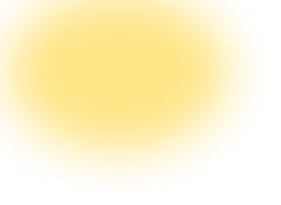
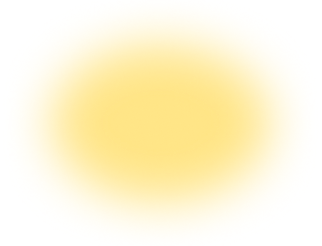
add color

diff --git a/playing.html b/playing.html
@@ -14,7 +14,7 @@
     <!-- 左上角光效 -->
     <img src="src/leftlight.png" class="left-light" alt="左光">
     <!-- 左上角色圖 -->
-    <img src="src/character.png" class="character" alt="角色地圖">
+    <img src="src/characterRed.png" class="character" alt="角色地圖">
 
     <!-- 中央 Round 標題 -->
     <div class="round-info">
@@ -30,50 +30,27 @@
       <img src="src/rightlight.png" class="right-light" alt="右光">
       <!-- 右下角 GOAL -->
       <img src="src/goal.png" class="goal" alt="終點路徑">
-      <h2 class="goal-text"></h2>
+      <h2 class="goal-text">GOAL!</h2>
+
+      <!-- 光球回饋 --> <!-- 新加了這個div class!!!!!!!!!!!!!!!!!!!!!!!!!!!!!!!!!!!!!!!!!!!!!!!!!!!!!!!!!! -->
+      <div class="color-lights">
+        <div class="light-ball white" style="top: 304.5px; left: 585px;"></div>
+        <div class="light-ball yellow" style="top: 256.5px; left: 638px;"></div>
+        <div class="light-ball magenta" style="top: 220.5px; left: 700px;"></div>
+        <div class="light-ball cyan" style="top: 196.5px; left: 765px;"></div>
+      </div>
+
     </div>
   </div>
+
   <button onclick='window.location.href = "index.html"' ;> 上一頁 </button>
-  <!--<h2>control TD</h2>
-  <input type="range" class="controlTD">
-  <h2>controled by TD</h2>
-  <input type="range" class="controledByTD">-->
-  <script src="src/playing.js"></script>
 
-
-  <!--先放在這邊改天再搬家測試-->
-  <div id="circleC" style="width: 50px;
-      height: 50px;
-      border-radius: 50%;
-      background-color: gray;
-      transition: background-color 0.3s;"></div>
-  <h3>青色</h3>
-  <div id="circleM" style="width: 50px;
-      height: 50px;
-      border-radius: 50%;
-      background-color: gray;
-      transition: background-color 0.3s;"></div>
-  <h3>洋紅</h3>
-  <div id="circleY" style="width: 50px;
-      height: 50px;
-      border-radius: 50%;
-      background-color: gray;
-      transition: background-color 0.3s;"></div>
-  <h3>黃色</h3>
-  <div id="circleW" style="width: 50px;
-      height: 50px;
-      border-radius: 50%;
-      background-color: gray;
-      transition: background-color 0.3s;"></div>
-  <h3>白色</h3>
-  
   <script>
     let ws = new WebSocket('wss://websitetest-xx30.onrender.com');
-    const circleC = document.getElementById("circleC");
-    const circleM = document.getElementById("circleM");
-    const circleY = document.getElementById("circleY");
-    const circleW = document.getElementById("circleW");
-    //const toggleC = document.getElementById("toggleSwitch");
+    const ballCyan = document.querySelectorAll('.light-ball.cyan');
+    const ballMagenta = document.querySelectorAll('.light-ball.magenta');
+    const ballYellow = document.querySelectorAll('.light-ball.yellow');
+    const ballWhite = document.querySelectorAll('.light-ball.white');
 
     ws.addEventListener('message', (message) => {
       if (message.data == 'ping') {
@@ -84,46 +61,45 @@
       let data = JSON.parse(message.data);
       if ('colorC' in data) {
         let valC = data['colorC'];
-        if(valC == 1){
+        if (valC == 1) {
           //toggleC.checked = true;
-          circleC.style.backgroundColor = "cyan";
-        }else{
-          //toggleC.checked = false;
-          circleC.style.backgroundColor = "gray";
+          ballCyan.forEach((cyan) => {
+            cyan.classList.add('active');
+          });
         }
       }
       if ('colorM' in data) {
         let valM = data['colorM'];
-        if(valM == 1){
+        if (valM == 1) {
           //toggleC.checked = true;
-          circleM.style.backgroundColor = "magenta";
-        }else{
-          //toggleC.checked = false;
-          circleM.style.backgroundColor = "gray";
+          ballMagenta.forEach((magenta) => {
+            magenta.classList.add('active');
+          });
         }
       }
       if ('colorY' in data) {
         let valY = data['colorY'];
-        if(valY == 1){
+        if (valY == 1) {
           //toggleC.checked = true;
-          circleY.style.backgroundColor = "yellow";
-        }else{
-          //toggleC.checked = false;
-          circleY.style.backgroundColor = "gray";
+          ballYellow.forEach((yellow) => {
+            yellow.classList.add('active');
+          });
         }
       }
       if ('colorW' in data) {
         let valW = data['colorW'];
-        if(valW == 1){
+        if (valW == 1) {
           //toggleC.checked = true;
-          circleW.style.backgroundColor = "white";
-        }else{
-          //toggleC.checked = false;
-          circleW.style.backgroundColor = "gray";
+          ballWhite.forEach((white) => {
+            white.classList.add('active');
+          });
         }
       }
     });
   </script>
+
+
+
 </body>
 
 </html>

diff --git a/src/playing.css b/src/playing.css
@@ -12,14 +12,10 @@ html {
   align-items: center;
   overflow: hidden;
 
-  /* 背景圖片 */
-  background-image: url('../src/BG.png');
+  background: radial-gradient(circle at 40% 40%, #fefadc, #e3ffef, #c9fff7);
   background-size: cover;
-  /* 讓背景圖片撐滿畫面 */
   background-repeat: no-repeat;
-  /* 不要重複平舖 */
   background-position: center center;
-  /* 圖片置中 */
 }
 
 /* 整體容器 */
@@ -27,17 +23,19 @@ html {
   width: 844px;
   height: 390px;
   position: relative;
-  overflow: hidden;
+  overflow: visible;
 }
 
 /* 左上光效 */
 .left-light {
   position: absolute;
-  top: 0;
-  left: 15;
-  width: 300px; /* 可以微調 */
+  top: -80px;
+  left: -90px;
+  width: 400px;
+  /* 可以微調 */
   opacity: 0.9;
-  z-index: 0; /* 比 character 更低 */
+  z-index: 0;
+  /* 比 character 更低 */
 }
 
 /* 左上角角色地圖 */
@@ -79,27 +77,31 @@ html {
   transform: translateX(-50%);
   width: 120px;
   height: auto;
-  transform-style: preserve-3d; /* ⭐保持3D空間感 */
-  transition: transform 0.1s linear; /* ⭐讓旋轉滑順 */
+  transform-style: preserve-3d;
+  /* ⭐保持3D空間感 */
+  transition: transform 0.1s linear;
+  /* ⭐讓旋轉滑順 */
   z-index: 3;
 }
 
 /* 右下光效 */
 .right-light {
   position: absolute;
-  bottom: 0;
-  right: 0;
-  width: 300px; /* 可以微調 */
+  bottom: -90px;
+  right: -130px;
+  width: 400px;
+  /* 可以微調 */
   opacity: 0.9;
-  z-index: 0; /* 比 goal 更低 */
+  z-index: 0;
+  /* 比 goal 更低 */
 }
 
 /* 右下角 goal 關卡路徑 */
 .goal {
   position: absolute;
-  bottom: 0;
-  right: 0;
-  width: 800px;
+  bottom: -110px;
+  right: -70px;
+  width: 400px;
 }
 
 /* 左下 GOAL! 文字 */
@@ -110,6 +112,58 @@ html {
   color: white;
   font-weight: 900;
   font-size: 28px;
-  text-shadow: 2px 2px 5px rgba(0, 0, 0, 0.3); /* 讓字有陰影更清楚 */
-  z-index: 5; /* 確保文字在最上層 */
+  text-shadow: 2px 2px 5px rgba(0, 0, 0, 0.3);
+  /* 讓字有陰影更清楚 */
+  z-index: 5;
+  /* 確保文字在最上層 */
 }
+
+
+/*下面都是新加的!!!!!!!!!!!!!!!!!!!!!!!!!!!!!!!!!!!!!!!!!!!!!!!!!!!!!!!!!!!!!!!!!!!!!!*/
+/* 光球容器 */
+.color-lights {
+  position: absolute;
+  top: 0;
+  left: 0;
+  width: 100%;
+  height: 100%;
+  pointer-events: none; /* 不影響點擊行為 */
+  z-index: 3;
+}
+
+/* 單顆光球共用樣式 */
+.light-ball {
+  position: absolute;
+  width: 42px;
+  height: 42px;
+  border-radius: 50%;
+  opacity: 0;
+  box-shadow: 0 0 20px transparent;
+  transition: all 0.5s ease;
+}
+
+/* 顏色亮起樣式 */
+.white.active {
+  background-color: white;
+  box-shadow: 0 0 20px white;
+  opacity: 1;
+}
+
+.yellow.active {
+  background-color: yellow;
+  box-shadow: 0 0 20px yellow;
+  opacity: 1;
+}
+
+.magenta.active {
+  background-color: magenta;
+  box-shadow: 0 0 20px magenta;
+  opacity: 1;
+}
+
+.cyan.active {
+  background-color: cyan;
+  box-shadow: 0 0 20px cyan;
+  opacity: 1;
+}
+

diff --git a/src/palyer_rgb_style.css b/src/palyer_rgb_style.css
@@ -12,11 +12,10 @@ body {
   align-items: center;
   overflow: hidden;
 
-  /* 背景圖片 */
-  background-image: url('../src/BG.png');
-  background-size: cover; /* 讓背景圖片撐滿畫面 */
-  background-repeat: no-repeat; /* 不要重複平舖 */
-  background-position: center center; /* 圖片置中 */
+  background: radial-gradient(circle at 40% 40%, #fefadc, #e3ffef, #c9fff7);
+  background-size: cover;
+  background-repeat: no-repeat;
+  background-position: center center;
 }
 
 /* 容器置中 */

diff --git a/src/pB.js b/src/pB.js
@@ -41,11 +41,6 @@ async function changeRedStatu(){
                     blue.classList.add('on');            
                 });
             }
-            /*balls.forEach((green) => {        
-                
-                green.classList.remove('off');
-                green.classList.add('on');            
-            });*/
 
         }
     } catch (error) {
